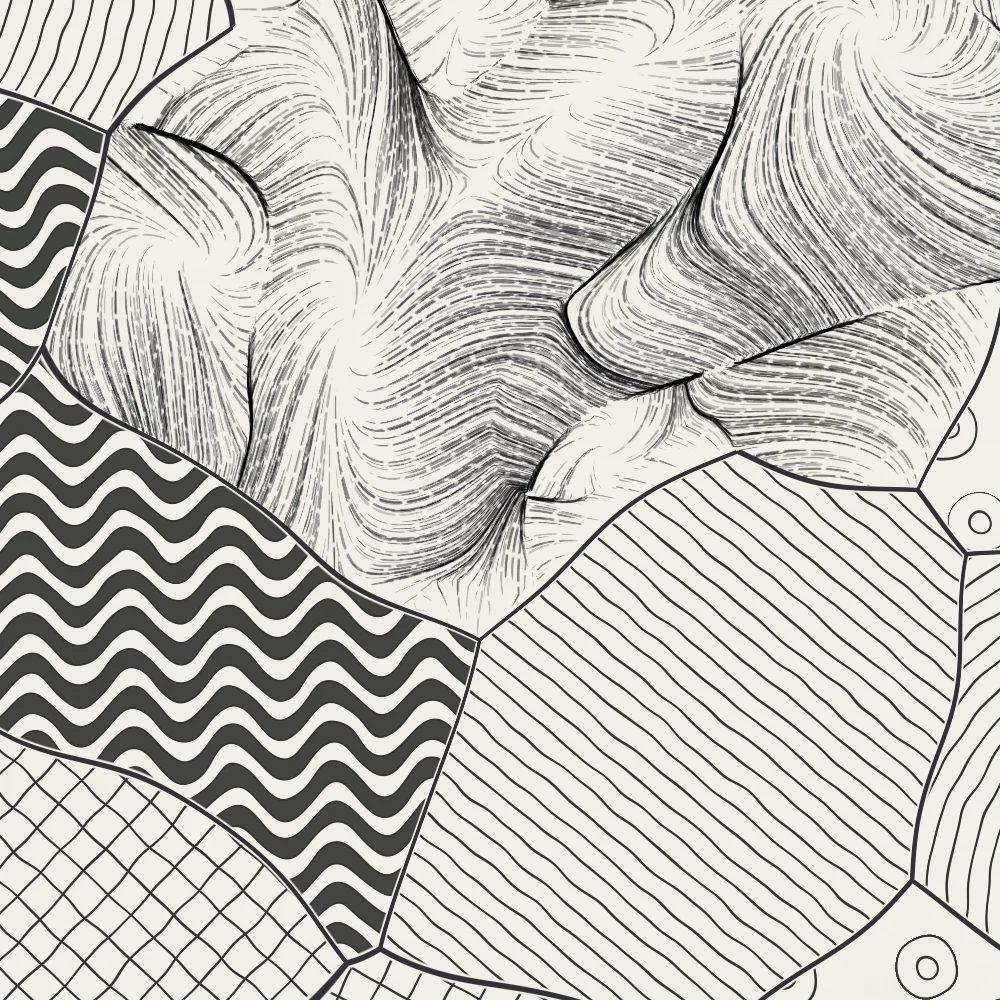
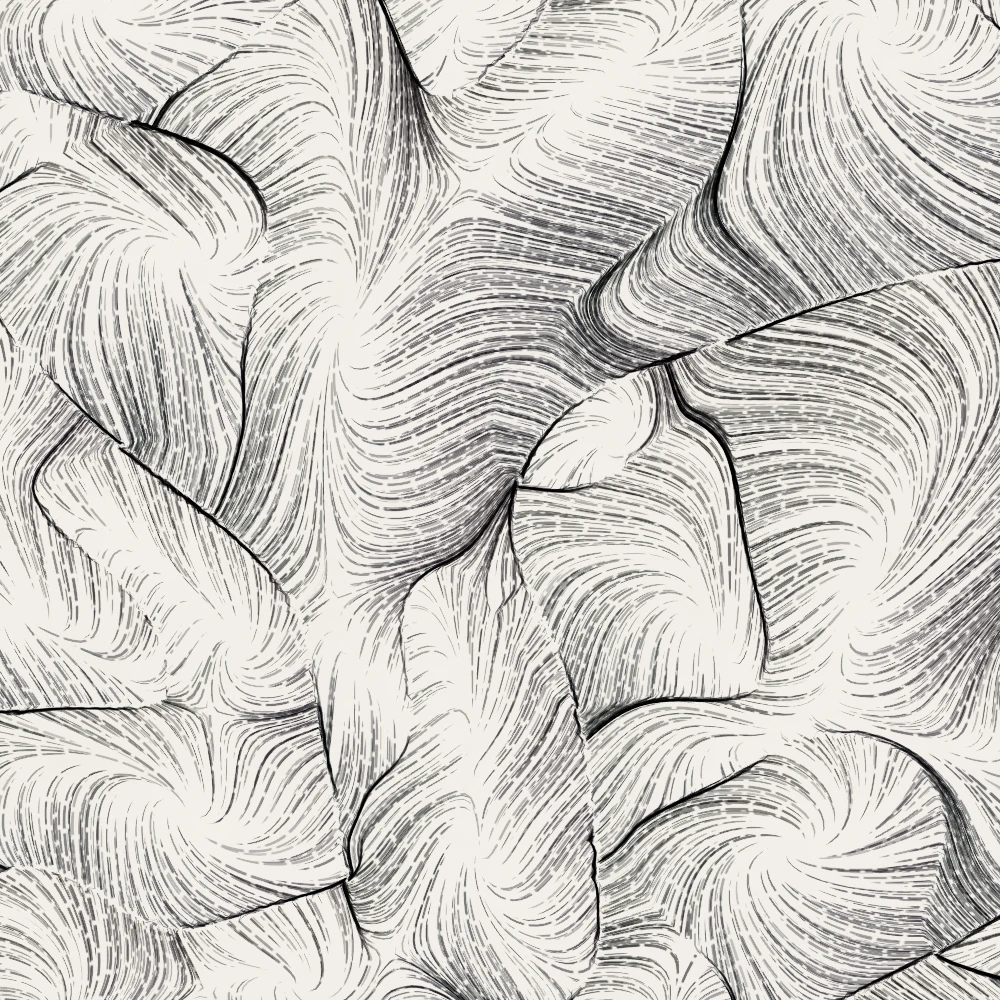
Flowing Field: remove the zentangle sections
Reverts the zentangle-style patterned sections of v8 (678f04f), so
that the drawing is v7's again, while keeping v8's rename to Flowing
Field, v9's inking wording and nib sound, and the site's tags. The
description, help text, handover, screenshot and card no longer
mention or show the patterns.

diff --git a/static-assets/toys/flowing-field/index.html b/static-assets/toys/flowing-field/index.html
@@ -8,7 +8,7 @@
 <link rel="apple-touch-icon" href="apple-touch-icon.png">
 <script src="../pwa.js" defer></script>
 <title>Flowing Field</title>
-<meta name="description" content="An animated ink drawing of thousands of fine pen strokes sweeping into dark creased ridges, with sections filled with hand-drawn patterns. Drag to rake the strokes into line, then randomise, explore nearby drawings and cycle psychedelic colours">
+<meta name="description" content="An animated ink drawing of thousands of fine pen strokes sweeping into dark creased ridges. Drag to rake the strokes into line, then randomise, explore nearby drawings and cycle psychedelic colours">
 <meta name="toy-tagline" content="Thousands of fine pen strokes sweep into ridges and rake into line under your finger">
 <meta name="toy-category" content="trifles">
 <link rel="preconnect" href="https://fonts.googleapis.com">
@@ -91,7 +91,7 @@ input[type=range]:focus-visible::-webkit-slider-thumb{background:var(--accent)}
 .hideui .mark,.hideui .bar,.hideui .panel,.hideui .xbar,.hideui .hint{display:none}
 </style>
 
-<canvas id="c" aria-label="Animated field of feathered ink strokes and hand-drawn patterns. Drag to draw through it."></canvas>
+<canvas id="c" aria-label="Animated field of feathered ink strokes. Drag to draw through it."></canvas>
 <div class="mark"><h1>Flowing Field</h1><span>流</span></div>
 <div class="hint" id="hint">Drag to draw through the ink</div>
 <div class="dbg" id="dbg" hidden><pre id="dbgt"></pre><canvas id="dbgc" width="320" height="72" aria-label="Frame time graph"></canvas></div>
@@ -133,17 +133,6 @@ const SPEC=[
   {k:'warp',l:'Warp',min:0,max:1.5,step:.01,d:.2},
   {k:'drift',l:'Drift speed',min:0,max:1,step:.005,d:.08},
  ]},
- {g:'Tangle',jp:'紋',items:[
-  {k:'tAmt',l:'Patterned sections',min:0,max:1,step:.01,d:.6},
-  {k:'tCell',l:'Section size',min:.2,max:2,step:.01,d:.6},
-  {k:'tVar',l:'Pattern variety',min:1,max:9,step:1,d:9},
-  {k:'tSp',l:'Line spacing (px)',min:4,max:40,step:.5,d:10},
-  {k:'tW',l:'Line weight',min:.3,max:4,step:.05,d:1.2},
-  {k:'tWob',l:'Freehand wobble',min:0,max:1,step:.01,d:.45},
-  {k:'tFill',l:'Black fills',min:0,max:1,step:.01,d:.3},
-  {k:'tStr',l:'String weight (px)',min:0,max:6,step:.1,d:2.2},
-  {k:'tMove',l:'Line drift',min:-1,max:1,step:.01,d:.12},
- ]},
  {g:'Feathering',jp:'線',items:[
   {k:'spacing',l:'Stroke spacing (px)',min:3,max:24,step:.5,d:7.5,keep:1},
   {k:'len',l:'Stroke length (px)',min:10,max:300,step:1,d:170},
@@ -179,7 +168,7 @@ function rng(a){return function(){a|=0;a=a+0x6D2B79F5|0;let t=Math.imul(a^a>>>15
 // ---------- GL ----------
 const cv=document.getElementById('c');
 const gl=cv.getContext('webgl2',{antialias:true,premultipliedAlpha:false});
-if(!gl){document.body.insertAdjacentHTML('beforeend','<div class="nogl">Flowing Field needs WebGL2, which this browser does not provide.</div>');return}
+if(!gl){document.body.insertAdjacentHTML('beforeend','<div class="nogl">Sumi Field needs WebGL2, which this browser does not provide.</div>');return}
 const FAST=!!gl.getExtension('EXT_color_buffer_float')&&location.hash!=='#slow';
 const ENC=FAST?0:1;
 const MAXTEX=gl.getParameter(gl.MAX_TEXTURE_SIZE);
@@ -210,30 +199,6 @@ float snoise(vec3 v){
 }
 vec3 hsl(float h,float s,float l){vec3 c=clamp(abs(mod(h*6.+vec3(0.,4.,2.),6.)-3.)-1.,0.,1.);return l+s*(c-.5)*(1.-abs(2.*l-1.));}
 `;
-// Zentangle-style sections: wobbly Voronoi 'string' divides the plane; each section is feathering or a hand-drawn line pattern.
-const TANGLE=`
-uniform float uTAmt,uTCell,uTVar,uTPer,uTWob,uTKOff;
-vec3 h33(vec3 p){p=fract(p*vec3(.1031,.1030,.0973));p+=dot(p,p.yxz+33.33);return fract((p.xxy+p.yxx)*p.zyx);}
-vec2 site(vec2 c){vec3 h=h33(vec3(c,uSeedOff*7.1));return c+.5+.36*vec2(sin(uT*1.3+h.x*6.283),cos(uT*1.1+h.y*6.283));}
-vec2 cellP(vec2 p){vec2 q=p/uTCell;return q+uTWob*.22*vec2(snoise(vec3(q*1.3,uT*.4+uSeedOff+40.)),snoise(vec3(q*1.3+7.7,uT*.4+uSeedOff+50.)));}
-bool tangled(vec2 id){return h33(vec3(id,uSeedOff+3.7)).x<uTAmt;}
-vec2 nearest(vec2 q,out vec2 s){vec2 ip=floor(q),bid=ip;float bd=1e9;
-  for(int j=-1;j<=1;j++)for(int i=-1;i<=1;i++){vec2 c=ip+vec2(i,j);vec2 t=site(c);vec2 e=q-t;float d=dot(e,e);if(d<bd){bd=d;bid=c;s=t;}}
-  return bid;}
-float border(vec2 q,vec2 bid,vec2 s,out vec2 nid){float ed=1e9;nid=bid;
-  for(int j=-1;j<=1;j++)for(int i=-1;i<=1;i++){if(i==0&&j==0)continue;vec2 c=bid+vec2(i,j);vec2 t=site(c);vec2 n=t-s;float l=length(n);if(l<1e-4)continue;n/=l;float d=dot(.5*(s+t)-q,n);if(d<ed){ed=d;nid=c;}}
-  return ed;}
-`;
-const INK=`
-vec3 ink(float key){
-  float t=uHue+key*uHueSpread+uPhase;
-  if(uMode==0){vec3 base=uAdd==1?vec3(.93,.91,.87):vec3(.05,.05,.07);vec3 tint=hsl(fract(t),1.,uAdd==1?.7:.3);return mix(base,tint,uSat*.85);}
-  if(uMode==1)return hsl(fract(t),uSat*.5+.5,uAdd==1?.6:.42);
-  if(uMode==2){vec3 c=.5+.5*cos(6.28318*(t+vec3(0.,.33,.67)));float y=dot(c,vec3(.3,.59,.11));c=mix(vec3(y),c,.6+.6*uSat);return clamp(uAdd==1?c:c*.8,0.,1.);}
-  float m=.5+.5*sin(6.28318*(key*uHueSpread+uPhase));
-  return mix(hsl(fract(uHue),.4+.6*uSat,uAdd==1?.55:.32),hsl(fract(uHue+.5),.4+.6*uSat,uAdd==1?.7:.45),m);
-}
-`;
 const VS_TRI=`#version 300 es
 layout(location=0) in vec2 a;void main(){gl_Position=vec4(a,0.,1.);}`;
 
@@ -244,7 +209,6 @@ uniform vec2 uSize,uView,uPan;uniform float uZoom,uScale,uGain,uCrease,uCurl,uWa
 uniform sampler2D uGroom,uFsc;uniform int uGroomOn,uEnc,uPass;
 out vec4 o;
 ${NOISE}
-${TANGLE}
 float F(vec2 p){
   vec2 w=p;
   if(uWarp>0.)w+=uWarp*vec2(snoise(vec3(p*.6,uT*.7+uSeedOff+11.)),snoise(vec3(p*.6+5.2,uT*.7+uSeedOff+23.)));
@@ -264,7 +228,6 @@ void main(){
   float gm=0.;
   if(uGroomOn==1){vec4 t=texture(uGroom,uv);vec2 gv=uEnc==1?t.xy*2.-1.:t.xy;gm=length(gv);
     if(gm>.02){float w=smoothstep(.02,.7,gm);vec2 b=mix(v,gv/gm,w);float bl=length(b);v=bl>1e-4?b/bl:gv/gm;}}
-  if(uTAmt>0.){float m=min(uView.x,uView.y);vec2 p=(uv-.5)*uView/m*2./uZoom+uPan;vec2 s;if(tangled(nearest(cellP(p),s)))v=vec2(0.);}
   o=vec4(v*.5+.5,rf(ci),clamp(gm,0.,1.));
 }`;
 // Groom: persistent hand-combed direction field, carried with pan/zoom, slowly relaxing.
@@ -290,7 +253,7 @@ precision highp float;
 uniform highp sampler2D uField,uPrevT,uSeeds;uniform vec2 uView,uFS;uniform float uH;uniform int uBand,uR,uWt,uN;
 out vec4 o;
 vec4 fld(vec2 q){return textureLod(uField,clamp(q/uView,0.,1.)*uFS,0.);}
-vec2 dirAt(vec2 q){vec2 d=fld(q).xy*2.-1.;float l=length(d);return l>.5?d/l:vec2(0.);}
+vec2 dirAt(vec2 q){vec2 d=fld(q).xy*2.-1.;float l=length(d);return l>1e-4?d/l:vec2(1.,0.);}
 void main(){
   ivec2 c=ivec2(gl_FragCoord.xy);int row=c.y-uBand*uR;
   if(row*uWt+c.x>=uN){o=vec4(0.);return;}
@@ -298,22 +261,21 @@ void main(){
   vec4 p=texelFetch(uPrevT,ivec2(c.x,c.y-uR),0);
   vec2 q=p.xy,d=p.zw;
   if(dot(d,d)<.25){o=p;return;}
-  vec2 dm=dirAt(q+d*uH*.5);if(dot(dm,d)<-.2||dot(dm,dm)<.25){o=vec4(q,d*.01);return;}
-  vec2 dn=dirAt(q+dm*uH);if(dot(dn,dm)<-.2||dot(dn,dn)<.25){o=vec4(q,d*.01);return;}
+  vec2 dm=dirAt(q+d*uH*.5);if(dot(dm,d)<-.2){o=vec4(q,d*.01);return;}
+  vec2 dn=dirAt(q+dm*uH);if(dot(dn,dm)<-.2){o=vec4(q,d*.01);return;}
   o=vec4(q+dm*uH,dn);
 }`;
 const STROKE_COMMON=`
 uniform sampler2D uField;uniform vec2 uView,uFS;uniform float uH,uS,uNMax,uWidth,uTaper,uPx;
 out float vSide,vArc,vCov,vKeyF,vGm;out vec4 vRnd;out vec2 vDir;
 vec4 fld(vec2 q){return textureLod(uField,clamp(q/uView,0.,1.)*uFS,0.);}
-vec2 dirAt(vec2 q){vec2 d=fld(q).xy*2.-1.;float l=length(d);return l>.5?d/l:vec2(0.);}
+vec2 dirAt(vec2 q){vec2 d=fld(q).xy*2.-1.;float l=length(d);return l>1e-4?d/l:vec2(1.,0.);}
 void emit(vec2 q,vec2 d,float fi,float n,float gm,float side){
   float s=fi/n;
   float a=mix(.6,.3,uTaper),b=mix(.6,1.8,uTaper);float sm=a/(a+b);
   float prof=pow(max(s,1e-4),a)*pow(max(1.-s,0.),b)/(pow(sm,a)*pow(1.-sm,b));
   float w=uWidth*uPx*(.45+1.1*aRnd.y)*prof*(1.-.25*gm);
   float ww=max(w,1.);vCov=w/ww;
-  if(dot(d,d)<.25){d=vec2(1.,0.);ww=0.;vCov=0.;}
   vec2 N=vec2(-d.y,d.x);vec2 pos=q+N*side*ww*.5;
   gl_Position=vec4(pos/uView*2.-1.,0.,1.);
   vSide=side;vArc=fi*uH/uPx;vRnd=aRnd;vDir=d;vKeyF=fld(q).z;vGm=gm;
@@ -328,7 +290,7 @@ vec4 tr(int b){int id=gl_InstanceID+uBase;ivec2 tc=ivec2(id%uWt,b*uR+id/uWt);ret
 void main(){
   int i=gl_VertexID/2;float side=float(gl_VertexID%2)*2.-1.;
   float gm=fld(tr(0).xy).w;float n=lenSteps(gm);float fi=min(float(i),n);
-  vec4 t=tr(int(fi));vec2 d=t.zw;float l=length(d);d=l>1e-6?d/l:vec2(0.);if(length(tr(0).zw)<.5)d=vec2(0.);
+  vec4 t=tr(int(fi));vec2 d=t.zw;float l=length(d);d=l>1e-6?d/l:vec2(1.,0.);
   emit(t.xy,d,fi,n,gm,side);
 }`;
 const VS_SLOW=`#version 300 es
@@ -338,7 +300,7 @@ void main(){
   int i=gl_VertexID/2;float side=float(gl_VertexID%2)*2.-1.;
   vec2 q=aSeed*uView;float gm=fld(q).w;float n=lenSteps(gm);float fi=min(float(i),n);
   vec2 d=dirAt(q);
-  for(int k=0;k<200;k++){if(float(k)>=fi||dot(d,d)<.25)break;vec2 dm=dirAt(q+d*uH*.5);if(dot(dm,d)<-.2||dot(dm,dm)<.25)break;vec2 dn=dirAt(q+dm*uH);if(dot(dn,dm)<-.2||dot(dn,dn)<.25)break;q+=dm*uH;d=dn;}
+  for(int k=0;k<200;k++){if(float(k)>=fi)break;vec2 dm=dirAt(q+d*uH*.5);if(dot(dm,d)<-.2)break;vec2 dn=dirAt(q+dm*uH);if(dot(dn,dm)<-.2)break;q+=dm*uH;d=dn;}
   emit(q,d,fi,n,gm,side);
 }`;
 const FS_STROKE=`#version 300 es
@@ -347,7 +309,15 @@ in float vSide,vArc,vCov,vKeyF,vGm;in vec4 vRnd;in vec2 vDir;
 uniform float uInk,uDash,uDashLen,uFlowPh,uHue,uHueSpread,uSat,uPhase;uniform int uMode,uKey,uAdd;
 out vec4 o;
 ${NOISE}
-${INK}void main(){
+vec3 ink(float key){
+  float t=uHue+key*uHueSpread+uPhase;
+  if(uMode==0){vec3 base=uAdd==1?vec3(.93,.91,.87):vec3(.05,.05,.07);vec3 tint=hsl(fract(t),1.,uAdd==1?.7:.3);return mix(base,tint,uSat*.85);}
+  if(uMode==1)return hsl(fract(t),uSat*.5+.5,uAdd==1?.6:.42);
+  if(uMode==2){vec3 c=.5+.5*cos(6.28318*(t+vec3(0.,.33,.67)));float y=dot(c,vec3(.3,.59,.11));c=mix(vec3(y),c,.6+.6*uSat);return clamp(uAdd==1?c:c*.8,0.,1.);}
+  float m=.5+.5*sin(6.28318*(key*uHueSpread+uPhase));
+  return mix(hsl(fract(uHue),.4+.6*uSat,uAdd==1?.55:.32),hsl(fract(uHue+.5),.4+.6*uSat,uAdd==1?.7:.45),m);
+}
+void main(){
   float a=uInk*(.35+.65*vRnd.z)*vCov*(1.+.3*vGm);
   a*=1.-smoothstep(.5,1.,abs(vSide))*.55;
   if(uDash>0.){float m=fract(vArc/uDashLen-uFlowPh*(.6+.8*vRnd.x)+vRnd.w*7.);
@@ -358,64 +328,14 @@ ${INK}void main(){
 }`;
 const FS_PAPER=`#version 300 es
 precision highp float;
-uniform vec2 uOrigin,uView,uPan;uniform float uPaper,uGrain,uZoom,uT,uSeedOff,uTPh,uTFill,uTW,uTStr,uInk;
-uniform float uHue,uHueSpread,uSat,uPhase;uniform int uMode,uKey,uAdd,uGroomOn,uEnc;uniform sampler2D uGroom;
-out vec4 o;
+uniform vec2 uOrigin;uniform float uPaper,uGrain;out vec4 o;
 ${NOISE}
-${TANGLE}
-${INK}
-// pattern k -> (S in line units, |grad S| in line units per world unit); g<0 means no line here
-vec2 pat(int k,vec2 p,vec2 sw,float edw,vec3 h,vec3 h2,out vec2 S2){
-  float per=uTPer;float a=h.z*3.14159;vec2 d=vec2(cos(a),sin(a)),n=vec2(-d.y,d.x);
-  vec2 rr=p-sw;float rl=max(length(rr),1e-4);float th=atan(rr.y,rr.x);float u=dot(p,d),v=dot(p,n);S2=vec2(0.,-1.);
-  if(k==0)return vec2(u/per,1./per);                                   // stripes
-  if(k==1)return vec2(edw/per,1./per);                                 // auras echoing the outline
-  if(k==2)return vec2(rl/per,1./per);                                  // rings
-  if(k==3){float arms=h2.y<.5?1.:2.;float sg=h2.z<.5?-1.:1.;           // spiral
-    return vec2(rl/per+sg*arms*th/6.28318,sqrt(1./(per*per)+pow(arms/(6.28318*rl),2.)));}
-  if(k==4){float N=max(8.,floor(6.28318*uTCell*.3/per));               // sunburst
-    if(rl<per*1.6)return vec2(.5,-2.);return vec2(th*N/6.28318,N/(6.28318*rl));}
-  if(k==5){float A=per*.9,f=6.28318/(per*5.);return vec2((u+A*sin(v*f))/per,sqrt(1.+pow(A*f*cos(v*f),2.))/per);} // waves
-  if(k==6){float P=per*4.;float tri=abs(fract(v/P)-.5)*2.;return vec2((u+tri*per*2.)/per,1.4142/per);} // zigzag
-  if(k==7){float B=per*5.;vec2 lc=vec2(u,v)/B;vec2 bc=floor(lc);vec2 rel=(fract(lc)-.5)*B;   // bubbles
-    float rad=B*(.3+.18*h33(vec3(bc,uSeedOff)).x);float lr=length(rel);if(lr>rad)return vec2(.5,-1.);return vec2(lr/per,1./per);}
-  S2=vec2(v/(per*1.6),1./(per*1.6));return vec2(u/(per*1.6),1./(per*1.6)); // grid / checker
-}
-float lineCov(vec2 Sg,float wpx,float wpp){if(Sg.y<0.)return 0.;float dist=abs(fract(Sg.x+.5)-.5)/Sg.y/wpp;return 1.-smoothstep(wpx*.5-.6,wpx*.5+.6,dist);}
 float h12(vec2 p){p=fract(p*vec2(443.897,441.423));p+=dot(p,p.yx+19.19);return fract((p.x+p.y)*p.x);}
 void main(){
   vec2 q=gl_FragCoord.xy-uOrigin;
   vec3 c=uPaper>.5?hsl(.11,.5*(1.-uPaper)+.25,uPaper):hsl(.7,.25,uPaper);
   float n=snoise(vec3(q*.004,1.))*.5+snoise(vec3(q*.02,3.))*.3;
   c+=(n*.035+(h12(gl_FragCoord.xy)-.5)*.05)*uGrain;
-  if(uTAmt>0.){
-    float m=min(uView.x,uView.y);vec2 p=(q/uView-.5)*uView/m*2./uZoom+uPan;float wpp=2./m/uZoom;
-    vec2 cq=cellP(p),s,nid;vec2 id=nearest(cq,s);float ed=border(cq,id,s,nid)*uTCell;float edPx=ed/wpp;
-    bool me=tangled(id),nb=tangled(nid);
-    vec3 col=vec3(0.);float cov=0.;
-    if(me){
-      vec3 h=h33(vec3(id,uSeedOff+3.7)),h2=h33(vec3(id,uSeedOff+9.1));
-      int k=int(mod(floor(h.y*uTVar)+uTKOff,9.));
-      vec2 pw=p;
-      if(uGroomOn==1){vec4 t=texture(uGroom,q/uView);vec2 gv=uEnc==1?t.xy*2.-1.:t.xy;pw-=gv*uTPer*3.;}
-      float n1=snoise(vec3(pw/(uTPer*3.),uT*.3+1.)),n2=snoise(vec3(pw/(uTPer*3.)+9.,uT*.3+2.));
-      pw+=uTWob*uTPer*.3*vec2(n1,n2);
-      vec2 S2;vec2 Sg=pat(k,pw,s*uTCell,ed,h,h2,S2);
-      float dir=h2.z<.5?-1.:1.;Sg.x-=uTPh*dir;S2.x-=uTPh*dir*.5;
-      float wpx=uTW*(.7+.45*(n1*.5+.5)*uTWob+.15);
-      cov=max(lineCov(Sg,wpx,wpp),lineCov(S2,wpx,wpp));
-      if(Sg.y<-1.5)cov=1.;                                      // sunburst centre orb
-      if(h2.x<uTFill&&Sg.y>0.){float band=floor(Sg.x)+(S2.y>0.?floor(S2.x):0.);if(mod(band,2.)<.5)cov=max(cov,.92);}
-      cov*=smoothstep(uTStr*.5+1.,uTStr*.5+3.,edPx);           // pen stops short of the outline
-      float band=floor(Sg.x);
-      float key=uKey==0?h.z:(uKey==1?band*.11+h.y:h.y+band*.04);
-      col=ink(key);
-    }
-    if(me||nb){float sc=1.-smoothstep(uTStr*.5-.6,uTStr*.5+.6,edPx);if(uTStr<.05)sc=0.;
-      if(sc>cov){col=mix(col,ink(0.),sc);}cov=max(cov,sc);}
-    float a=clamp(cov*(.6+.4*uInk),0.,1.);
-    c=uAdd==1?c+col*a:c*mix(vec3(1.),col,a);
-  }
   o=vec4(c,1.);
 }`;
 function sh(t,s){const x=gl.createShader(t);gl.shaderSource(x,s);gl.compileShader(x);if(!gl.getShaderParameter(x,gl.COMPILE_STATUS))throw new Error(gl.getShaderInfoLog(x));return x}
@@ -500,7 +420,6 @@ let needResize=false,rescales=0,ceil=1e9;
 addEventListener('resize',()=>{needResize=true});
 
 const STEP=3.5;
-function setTangle(u,P){gl.uniform1f(u.uTAmt,P.tAmt);gl.uniform1f(u.uTCell,P.tCell);gl.uniform1f(u.uTVar,P.tVar);gl.uniform1f(u.uTPer,P.tSp*2/Math.min(cssW,cssH));gl.uniform1f(u.uTWob,P.tWob);gl.uniform1f(u.uTKOff,P.seed%9)}
 function stepsFor(P,k=1){const base=Math.max(3,Math.round(P.len*k/STEP));let S=Math.min(200,Math.round(base*1.5));if(FAST)S=Math.min(S,Math.floor(MAXTEX/R)-1);return S}
 
 // k: miniature factor (1 = full view); out: target framebuffer; px: device pixels per css pixel of the target
@@ -515,7 +434,7 @@ function draw(st,ox,oy,w,h,count,groomOn,k=1,out=null,px=scale){
   gl.uniform2f(u.uSize,fw,fh);gl.uniform2f(u.uView,w,h);gl.uniform2f(u.uPan,view.x,view.y);gl.uniform1f(u.uZoom,view.z);
   gl.uniform1f(u.uScale,P.scale);gl.uniform1f(u.uGain,P.gain);gl.uniform1f(u.uCrease,P.crease);gl.uniform1f(u.uCurl,P.curl*Math.PI/180);
   gl.uniform1f(u.uWarp,P.warp);gl.uniform1f(u.uT,st.T);gl.uniform1f(u.uSeedOff,(P.seed%997)*.731);gl.uniform1i(u.uOct,P.oct);
-  gl.activeTexture(gl.TEXTURE3);gl.bindTexture(gl.TEXTURE_2D,gTex[gCur]);gl.uniform1i(u.uGroom,3);gl.uniform1i(u.uGroomOn,groomOn?1:0);gl.uniform1i(u.uEnc,ENC);setTangle(u,P);
+  gl.activeTexture(gl.TEXTURE3);gl.bindTexture(gl.TEXTURE_2D,gTex[gCur]);gl.uniform1i(u.uGroom,3);gl.uniform1i(u.uGroomOn,groomOn?1:0);gl.uniform1i(u.uEnc,ENC);
   gl.bindVertexArray(triVAO);gl.uniform1i(u.uPass,0);gl.drawArrays(gl.TRIANGLES,0,3);
   gl.bindFramebuffer(gl.FRAMEBUFFER,fbo);gl.activeTexture(gl.TEXTURE6);gl.bindTexture(gl.TEXTURE_2D,fsTex);gl.uniform1i(u.uPass,1);gl.drawArrays(gl.TRIANGLES,0,3);
   const S=stepsFor(P,k),hh=STEP*px,gmax=groomOn&&groomActive?1:0,passes=Math.min(S,Math.ceil(S*(1+.5*gmax)/1.5));
@@ -531,12 +450,8 @@ function draw(st,ox,oy,w,h,count,groomOn,k=1,out=null,px=scale){
   }
   // 3. paper
   gl.bindFramebuffer(gl.FRAMEBUFFER,out);gl.enable(gl.SCISSOR_TEST);gl.scissor(ox,oy,w,h);gl.viewport(ox,oy,w,h);
-  {const add=P.paper<.5;gl.useProgram(pP.p);const v=pP.u;gl.uniform2f(v.uOrigin,ox,oy);gl.uniform1f(v.uPaper,P.paper);gl.uniform1f(v.uGrain,P.grain);
-  gl.uniform2f(v.uView,w,h);gl.uniform2f(v.uPan,view.x,view.y);gl.uniform1f(v.uZoom,view.z);gl.uniform1f(v.uT,st.T);gl.uniform1f(v.uSeedOff,(P.seed%997)*.731);
-  setTangle(v,P);gl.uniform1f(v.uTPh,st.M||0);gl.uniform1f(v.uTFill,P.tFill);gl.uniform1f(v.uTW,P.tW*px*k);gl.uniform1f(v.uTStr,P.tStr*px*k);gl.uniform1f(v.uInk,Math.max(.6,P.ink));
-  gl.uniform1f(v.uHue,P.hue);gl.uniform1f(v.uHueSpread,P.hueSpread);gl.uniform1f(v.uSat,P.sat);gl.uniform1f(v.uPhase,st.ph);gl.uniform1i(v.uMode,P.mode);gl.uniform1i(v.uKey,P.key);gl.uniform1i(v.uAdd,add?1:0);
-  gl.activeTexture(gl.TEXTURE3);gl.bindTexture(gl.TEXTURE_2D,gTex[gCur]);gl.uniform1i(v.uGroom,3);gl.uniform1i(v.uGroomOn,groomOn?1:0);gl.uniform1i(v.uEnc,ENC);
-  gl.bindVertexArray(triVAO);gl.drawArrays(gl.TRIANGLES,0,3);}
+  gl.useProgram(pP.p);gl.uniform2f(pP.u.uOrigin,ox,oy);gl.uniform1f(pP.u.uPaper,P.paper);gl.uniform1f(pP.u.uGrain,P.grain);
+  gl.drawArrays(gl.TRIANGLES,0,3);
   // 4. hairs
   const add=P.paper<.5;
   gl.enable(gl.BLEND);if(add)gl.blendFunc(gl.ONE,gl.ONE);else gl.blendFunc(gl.DST_COLOR,gl.ZERO);
@@ -604,7 +519,7 @@ function updatePurr(dt){
 
 // ---------- loop ----------
 let last=performance.now(),frameN=0,perfAcc=0,perfN=0,goodWin=0;var lastStrokeT=-1e9;
-function step(st,dt){if(!paused){st.T+=dt*st.P.drift;st.F+=dt*st.P.flow;st.ph+=dt*st.P.cycle;st.M=(st.M||0)+dt*st.P.tMove}}
+function step(st,dt){if(!paused){st.T+=dt*st.P.drift;st.F+=dt*st.P.flow;st.ph+=dt*st.P.cycle}}
 function frame(now){
   const rawDt=(now-last)/1000;const dt=Math.min(.05,rawDt);last=now;
   // apply any size/scale change here, before drawing, so a cleared canvas is never presented
@@ -698,7 +613,7 @@ const misc=document.createElement('section');misc.className='grp';
 misc.innerHTML=`<h2>View<small>見</small></h2>
 <div class="btns">Seed <span id="seedv"></span><button type="button" id="newseed">New seed</button></div>
 <div class="btns"><button type="button" id="ruffle">Clear pen marks</button><button type="button" id="recentre">Recentre</button><button type="button" id="dbgb" aria-pressed="false">Debug panel</button></div>
-<p class="foot">Drag to rake the feathering into line, or smear the ink in patterned sections. Marks relax over the persistence time; 120 keeps them permanently. Two-finger drag, right-drag or Shift-drag pans; pinch or scroll zooms. <kbd>H</kbd> hides the interface, <kbd>D</kbd> toggles the debug panel.</p>`;
+<p class="foot">Drag to rake the feathering into line. Marks relax over the persistence time; 120 keeps them permanently. Two-finger drag, right-drag or Shift-drag pans; pinch or scroll zooms. <kbd>H</kbd> hides the interface, <kbd>D</kbd> toggles the debug panel.</p>`;
 panel.appendChild(misc);
 const fmt=(s,v)=>s.step>=1?String(v):v.toFixed(s.step<.01?3:2);
 function sync(){
@@ -716,22 +631,22 @@ document.getElementById('recentre').onclick=()=>{view.x=view.y=0;view.z=1;dirty=
 function randomP(){const n={};ALL.forEach(s=>{if(s.keep){n[s.k]=P[s.k];return}if(s.type==='seg')n[s.k]=Math.floor(Math.random()*s.opts.length);else{let v=s.min+Math.random()*(s.max-s.min);n[s.k]=s.step>=1?Math.round(v):v}});
   n.seed=Math.floor(Math.random()*1e6);n.len=60+Math.random()*200;n.width=.6+Math.random()*2;n.dash=Math.random()<.5?0:Math.random()*.5;
   n.paper=Math.random()<.55?.82+Math.random()*.16:Math.random()*.1;n.drift=.03+Math.random()*.25;n.flow=(Math.random()-.5)*2.4;n.cycle=(Math.random()-.5)*.2;
-  n.oct=1+Math.floor(Math.random()*3);n.tAmt=Math.random()<.2?0:Math.random()<.2?1:Math.random();n.tSp=6+Math.random()*16;n.tW=.7+Math.random()*1.6;n.tStr=Math.random()*4;n.tMove=(Math.random()-.5)*.6;n.ink=.3+Math.random()*.5;n.crease=.6+Math.random()*.4;return n}
+  n.oct=1+Math.floor(Math.random()*3);n.ink=.3+Math.random()*.5;n.crease=.6+Math.random()*.4;return n}
 function adopt(n){Object.keys(P).forEach(k=>delete P[k]);Object.assign(P,n);main.P=P;seeds();dirty=true;sync();save()}
 function mutate(base,amt){const n=clone(base);
   ALL.forEach(s=>{if(s.keep)return;if(s.type==='seg'){if(Math.random()<amt*.3)n[s.k]=Math.floor(Math.random()*s.opts.length);return}
     let v=n[s.k]+(Math.random()-.5)*2*amt*(s.max-s.min)*.4;v=Math.min(s.max,Math.max(s.min,v));n[s.k]=s.step>=1?Math.round(v):v});
   return n}
-function makeTiles(){tiles=[];for(let i=0;i<9;i++){if(i===4){tiles.push(main);continue}const p=mutate(P,mut);tiles.push({P:p,T:main.T+(i===6||i===8?37+i*11:0),F:main.F,ph:main.ph,M:main.M})}tileDirty.fill(true);dirty=true}
+function makeTiles(){tiles=[];for(let i=0;i<9;i++){if(i===4){tiles.push(main);continue}const p=mutate(P,mut);tiles.push({P:p,T:main.T+(i===6||i===8?37+i*11:0),F:main.F,ph:main.ph})}tileDirty.fill(true);dirty=true}
 const grid=document.getElementById('grid'),xbar=document.getElementById('xbar'),bExp=document.getElementById('bExp');
 for(let i=0;i<9;i++){const b=document.createElement('button');b.type='button';if(i===4){b.className='centre';b.innerHTML='<span>Current · keep</span>'}else b.innerHTML=`<span>Variant ${i<4?i+1:i}</span>`;
-  b.onclick=()=>{if(i===4){setExplore(false);return}const t=tiles[i];main.T=t.T;main.F=t.F;main.ph=t.ph;main.M=t.M;adopt(t.P);makeTiles()};grid.appendChild(b)}
+  b.onclick=()=>{if(i===4){setExplore(false);return}const t=tiles[i];main.T=t.T;main.F=t.F;main.ph=t.ph;adopt(t.P);makeTiles()};grid.appendChild(b)}
 function setExplore(on){exploring=on;grid.hidden=xbar.hidden=!on;bExp.setAttribute('aria-pressed',on);dirty=true;if(on){makeTiles();setPanel(false)}}
 document.getElementById('mut').oninput=e=>{mut=parseFloat(e.target.value);makeTiles()};
 document.getElementById('reroll').onclick=makeTiles;document.getElementById('xdone').onclick=()=>setExplore(false);
 bExp.onclick=()=>setExplore(!exploring);
 document.getElementById('bRand').onclick=()=>{adopt(randomP());if(exploring)makeTiles()};
-document.getElementById('bReset').onclick=()=>{adopt(clone(DEF));clearGroom();view.x=view.y=0;view.z=1;main.T=main.F=main.ph=main.M=0;if(exploring)makeTiles()};
+document.getElementById('bReset').onclick=()=>{adopt(clone(DEF));clearGroom();view.x=view.y=0;view.z=1;main.T=main.F=main.ph=0;if(exploring)makeTiles()};
 const bPause=document.getElementById('bPause');const setPause=v=>{paused=v;dirty=true;bPause.setAttribute('aria-pressed',v);bPause.firstChild.textContent=v?'Play ':'Pause '};
 bPause.onclick=()=>setPause(!paused);
 const bPurr=document.getElementById('bPurr');const setPurr=v=>{purrOn=v;bPurr.setAttribute('aria-pressed',v);try{localStorage.setItem(LS+'-purr',v?'1':'0')}catch(e){}};

diff --git a/toys-src/flowing-field/HANDOVER.md b/toys-src/flowing-field/HANDOVER.md
@@ -1,6 +1,6 @@
 # Flowing Field — handover
 
-Interactive, animated ink-drawing toy. A flow field is drawn as thousands of fine tapered "feathering" strokes that converge into dark creased spines (reference look: fine pen strokes sweeping into ridges). The plane can also be split into zentangle-style sections filled with hand-drawn line patterns. Dragging rakes the strokes into line (and smears pattern lines); marks relax back over time. Psychedelic palettes and colour cycling. Previously called "Sumi Field" (the name came from the owner's reference picture).
+Interactive, animated ink-drawing toy. A flow field is drawn as thousands of fine tapered "feathering" strokes that converge into dark creased spines (reference look: fine pen strokes sweeping into ridges). Dragging rakes the strokes into line; marks relax back over time. Psychedelic palettes and colour cycling. Previously called "Sumi Field" (the name came from the owner's reference picture).
 
 Published at https://jermolene.com/toys/flowing-field/. Developed as a claude.ai artifact (https://claude.ai/artifact/1TAJyVGjZRus5zRYgNp7tb, versions 1–9) and then in its own repository (versions 4–9), whose history was merged into the jermolene.com repository on 2026-10-30.
 
@@ -19,9 +19,9 @@ The file works served or opened directly from disk. It was written for the claud
 1. **Groom pass** (`FS_GROOM`, ping-pong RGBA16F at 1/4 css res): persistent "pen marks" direction field. Pointer segments (up to 16/frame) are splatted as capsules; field decays by `exp(-dt/memory)`; reprojected on pan/zoom (`uK`, `uB`).
 2. **Field pass** (`FS_FIELD`, 1/1.5 css res), two sub-passes:
    - `uPass==0`: scalar ridged-noise F(p) (simplex, up to 4 octaves, `crease` folds each octave → spines; optional domain warp), packed 16-bit into RGBA8 `fsTex`.
-   - `uPass==1`: central differences of that scalar → gradient → rotated by `curl` → blended toward groom direction. Inside tangled sections the direction is written as zero (strokes stop at the string). Output RGBA16F: xy direction (×.5+.5), z field value (colour key), w groom magnitude.
-3. **Trace** (fast path, `FS_TRACE`): one fragment pass per step; each texel is one stroke; midpoint integration with step `STEP=3.5` px; stops when direction reverses (the crease) or hits zero (tangled section). Results stacked in an RGBA32F texture (`Wt`=4096 wide, R rows per band, S+1 bands).
-4. **Paper + tangle** (`FS_PAPER`, full res): paper tone + grain; if `tAmt>0`, per-pixel wobbly Voronoi (`TANGLE` GLSL: jittered-grid sites, 3×3 nearest + 3×3 border search) and per-section line patterns drawn analytically as anti-aliased isolines of a scalar S with known |∇S| (`pat()`, 9 patterns: stripes, auras, rings, spiral, sunburst, waves, zigzag, bubbles, grid/checker), optional alternate-band black fills, the string outline, pen-gap before the string. Groom vector smears the pattern sample position.
+   - `uPass==1`: central differences of that scalar → gradient → rotated by `curl` → blended toward groom direction. Output RGBA16F: xy direction (×.5+.5), z field value (colour key), w groom magnitude.
+3. **Trace** (fast path, `FS_TRACE`): one fragment pass per step; each texel is one stroke; midpoint integration with step `STEP=3.5` px; stops when direction reverses (the crease). Results stacked in an RGBA32F texture (`Wt`=4096 wide, R rows per band, S+1 bands).
+4. **Paper** (`FS_PAPER`, full res): paper tone + grain.
 5. **Strokes** (`VS_FAST`/`VS_SLOW` + `FS_STROKE`): instanced triangle strips, one instance per stroke, vertices read from the trace texture. Seeds are a shuffled jittered grid at `spacing` px; instances are sorted by length factor and drawn in 6 buckets so short strokes get fewer vertices. Light paper → multiply blend; dark paper (<.5) → additive glow.
 6. **Explore** (3×3): tiles render into an offscreen atlas at ≤1× density, `tpf` tiles per frame (adaptive 1–9), as true miniatures (lengths/weights scaled by k = tile/full); atlas copied to screen each frame.
 
@@ -29,11 +29,11 @@ The file works served or opened directly from disk. It was written for the claud
 
 **Adaptive resolution**: `scale` drops ×0.85 when 30-frame mean > 21 ms, rises ×1.08 after 10 good windows, never back above 97 % of the last scale that failed (`ceil`). Canvas size changes only via `needResize`, applied at the *start* of `frame()` (resizing a canvas clears it; doing it after drawing caused black flashes).
 
-**Test hooks**: `window.__sumi` = `{fast, halt(), snap(), frames()}` used by `tools/render.py`. Harmless; remove if you want.
+**Test hooks**: `window.__sumi` = `{fast, halt(), snap(), frames()}` used by `tools/render.mjs`. Harmless; remove if you want.
 
 ## Controls / parameters (`SPEC` array)
 
-Groups: Pen (nib width, pen pressure, mark persistence (120 = ∞), nib sound volume) · Field (frequency, detail layers/strength, crease sharpness, curl, warp, drift) · Tangle (patterned sections, section size, pattern variety, line spacing/weight, freehand wobble, black fills, string weight, line drift) · Feathering (stroke spacing/length, line weight, taper, ink load, dry-brush breaks, break length, ink travel) · Colour (palette Ink/Spectrum/Acid/Duotone, colour by Direction/Field/Stroke, hue, hue range, saturation, cycling) · Paper (tone, grain).
+Groups: Pen (nib width, pen pressure, mark persistence (120 = ∞), nib sound volume) · Field (frequency, detail layers/strength, crease sharpness, curl, warp, drift) · Feathering (stroke spacing/length, line weight, taper, ink load, dry-brush breaks, break length, ink travel) · Colour (palette Ink/Spectrum/Acid/Duotone, colour by Direction/Field/Stroke, hue, hue range, saturation, cycling) · Paper (tone, grain).
 `keep:1` params (Pen group, stroke spacing) are untouched by Randomise and Explore mutation. Keys: R randomise, E explore, Space pause, H hide UI, D debug. Gestures: 1-finger drag = rake; 2-finger/right/Shift drag = pan; pinch/wheel = zoom.
 
 ## Version history and how to revert
@@ -48,28 +48,24 @@ Each published version is one commit; the commits were tagged `v4`…`v9` in the
 | v7 | Black-flash fix: deferred resize, scale hysteresis, `webglcontextlost` → reload; debug shows rescales/lost | Reverts cleanly (brings the flashes back). |
 | v8 | Rename to Flowing Field; zentangle Tangle sections | Touches FS_FIELD (zero dir in sections), FS_TRACE/VS_* (stop at zero dir), FS_PAPER (tangle art), new `TANGLE`/`INK` GLSL strings, `setTangle()`, `st.M` line-drift phase, Tangle SPEC group, randomP. |
 | v9 | Inking terminology; nib-scratch sound replaces purr | Labels/text only, plus `initAudio`/`updatePurr` bodies. Internal names (`purrOn`, `hand`, `memory`, `groom`) intentionally unchanged. |
+| — | Zentangle sections removed (2026-10-30, the commit “Flowing Field: remove the zentangle sections”) | A revert of v8 that keeps its rename to Flowing Field and v9's wording: the drawing is v7's again. To bring the tangles back, revert that commit. |
 
-Revert behaviour was checked, and checked again after the move into jermolene.com: v9 and v7 revert cleanly against the head; v8, v6 and v5 conflict. Typical operations:
+Revert behaviour was checked, and checked again after the move into jermolene.com, before the tangles were removed: v9 and v7 reverted cleanly against the head; v8, v6 and v5 conflicted. Typical operations:
 
 ```sh
 git diff 90874f1 678f04f -- flowing-field.html   # see exactly what a version changed (v7 to v8)
 git revert --no-edit 1428a63                     # v9: back to purr + old wording (clean)
 git revert --no-edit 90874f1                     # v7: undo the flash fix (clean)
-git revert 678f04f                               # v8: drop tangles: CONFLICTS with v9's label edits inside the
-                                                 #   Tangle group; resolve by deleting the Tangle group and
-                                                 #   keeping v9's other labels
 git show 90874f1:flowing-field.html > static-assets/toys/flowing-field/index.html
                                                  # or restore a whole earlier version (v7), then put back
                                                  #   the site's tags at the top of the file
 ```
 
-To keep tangles but switch them off by default, rather than reverting v8: set `tAmt` default to 0 in SPEC (Tangle amount 0 is exactly the pre-v8 rendering, apart from the paper shader's per-pixel cost, which is skipped when `uTAmt==0`).
-
 ## Known issues / open threads
 
 - Only tested in headless SwiftShader; real iPad numbers unknown. The owner reported explore slowness (addressed in v4/v5) and black flashes (v7 fix unconfirmed on device; debug panel shows `rescales` and `lost` counters to confirm).
-- Tangle art is computed per pixel every frame (Voronoi + ~4 simplex calls). If too slow on iPad: render the pattern layer to a texture and only refresh it when drift/line-drift/marks change.
-- Pattern strokes are isolines, so they are evenly spaced and crisp; feathering strokes are seeded randomly, so they are not. Evenly spaced streamlines (Jobard–Lefer) would be a different, CPU-side project.
+- Feathering strokes are seeded randomly, so they are not evenly spaced. Evenly spaced streamlines (Jobard–Lefer) would be a different, CPU-side project.
+- Reported on the published toy (2026-10-30, while it still had tangles): sometimes the centre three thumbnails in explore view are black. Not yet investigated or reproduced; check whether it survives the removal of the tangles.
 - Nib sound not listened to; tune `initAudio` (band-pass 1.8–5 kHz with speed, grain at ~900 Hz).
 - The owner may rename the toy again ("I'll think of a better name" was said of Sumi Field; Flowing Field is the owner's choice).
 - Untested on a real iPad as an installed web app: `pwa.js` adds a small "back to the toys" button in the bottom-left corner when the toy is opened from the installed toys app, which may sit near the bottom toolbar on a phone.

diff --git a/toys-src/flowing-field/CLAUDE.md b/toys-src/flowing-field/CLAUDE.md
@@ -6,4 +6,4 @@ Single-file WebGL2 toy, published at jermolene.com/toys/flowing-field/ from `sta
 - Main target device is an iPad (Safari). Performance regressions matter more than anything else; check with the in-page debug panel (press D).
 - Verify every change with `node tools/render.mjs out.png` (and `--slow`, `--explore`, `--random` as relevant), then look at the PNG. It prints shader compile errors. It uses the Playwright installed in `toys-src` (`cd toys-src && npm install`).
 - Commit each logical change separately with a descriptive message so changes stay individually revertible.
-- Terminology is inking/line-drawing (pen, nib, feathering, strokes, string, marks). Do not reintroduce the old fur/cat wording.
+- Terminology is inking/line-drawing (pen, nib, feathering, strokes, marks). Do not reintroduce the old fur/cat wording.
